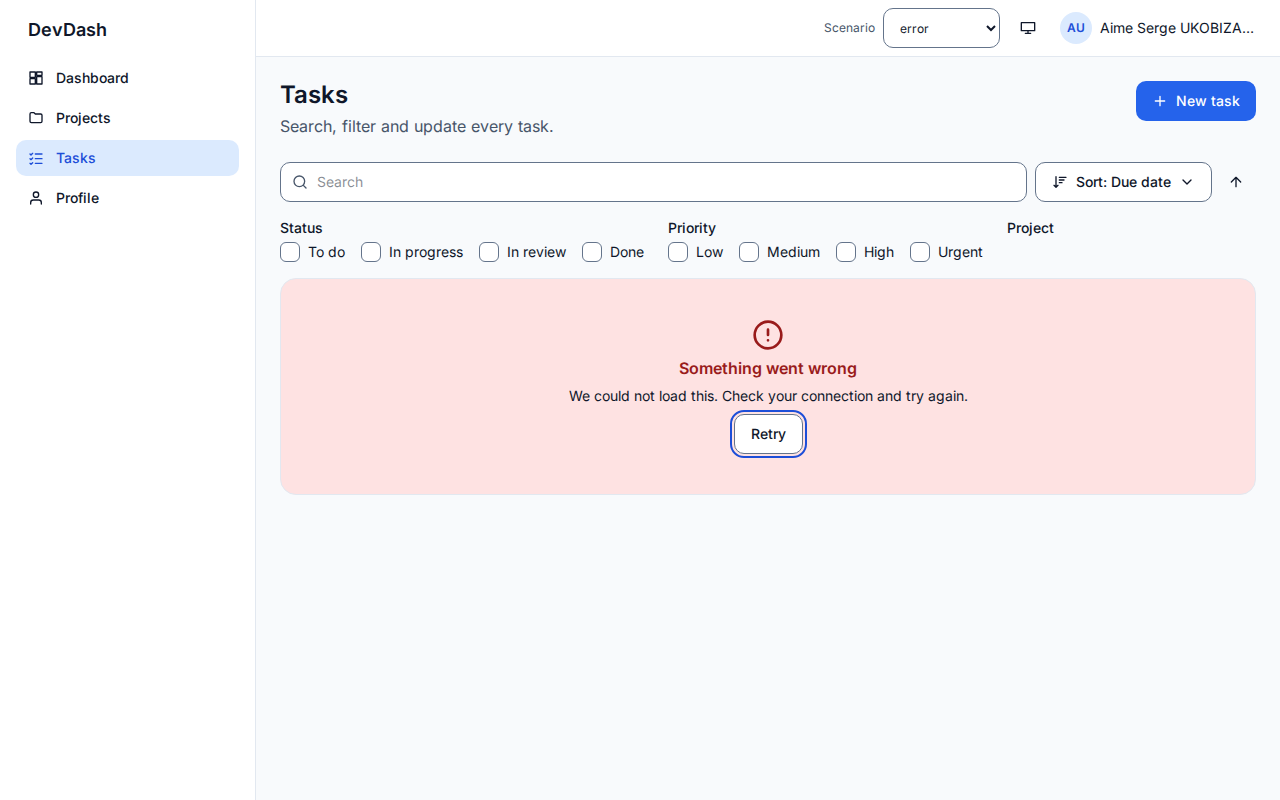
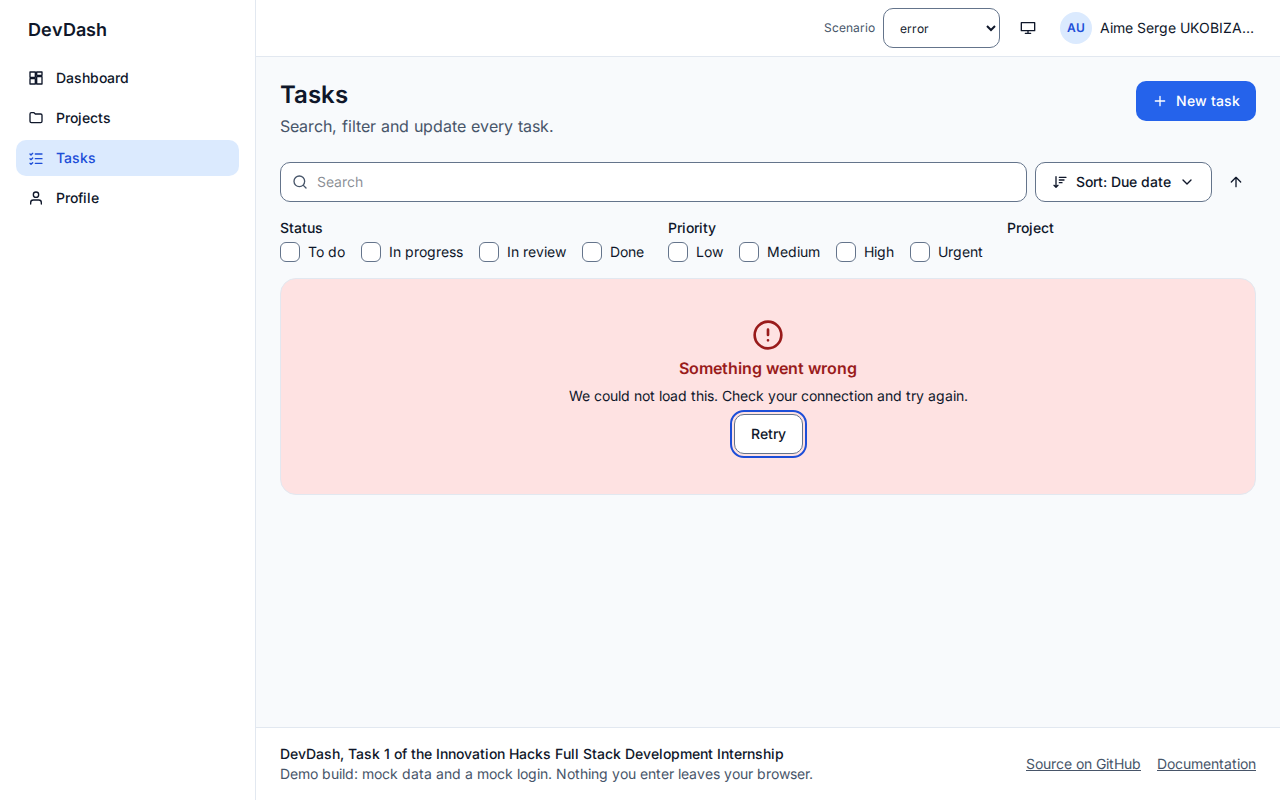
feat(frontend): add a server-rendered footer landmark with repo and docs links

Changed region(s): [[0.2188, 0.9375, 0.625, 1.0], [0.7812, 0.9375, 1.0, 0.9688]]

diff --git a/src/layout/Footer.tsx b/src/layout/Footer.tsx
@@ -1,0 +1,40 @@
+import { t } from "@/i18n";
+
+const REPO = "https://github.com/Aime-Serge/innovation-hacks-task1-dashboard";
+
+/** A server component: the footer adds no client JavaScript (NFR-04). */
+export function Footer() {
+  return (
+    <footer
+      aria-label={t("footer.label")}
+      className="border-t border-line bg-surface px-4 py-4 sm:px-6"
+    >
+      <div className="mx-auto flex w-full max-w-(--content-max) flex-col gap-2 text-sm text-muted sm:flex-row sm:items-center sm:justify-between">
+        <div>
+          <p className="font-medium text-fg">{t("footer.project")}</p>
+          <p>{t("footer.demo")}</p>
+        </div>
+        <ul className="flex gap-4">
+          <li>
+            <a
+              href={REPO}
+              rel="noopener noreferrer"
+              className="touch-target inline-flex items-center underline"
+            >
+              {t("footer.repo")}
+            </a>
+          </li>
+          <li>
+            <a
+              href={`${REPO}/tree/task/1-frontend/docs`}
+              rel="noopener noreferrer"
+              className="touch-target inline-flex items-center underline"
+            >
+              {t("footer.docs")}
+            </a>
+          </li>
+        </ul>
+      </div>
+    </footer>
+  );
+}

diff --git a/tests/unit/shell.test.tsx b/tests/unit/shell.test.tsx
@@ -1,4 +1,4 @@
-import { render, screen, waitFor } from "@testing-library/react";
+import { render, screen, waitFor, within } from "@testing-library/react";
 import userEvent from "@testing-library/user-event";
 import { beforeEach, describe, expect, it, vi } from "vitest";
 import { ForgotPasswordForm } from "@/features/auth/ForgotPasswordForm";
@@ -69,6 +69,18 @@ describe("TC-010 navigation (FR-05..08)", () => {
     expect(skip).toHaveFocus();
     expect(skip).toHaveAttribute("href", "#main-content");
     expect(screen.getByRole("main")).toHaveAttribute("id", "main-content");
+  });
+
+  it("TC-012 the shell ends with a labelled footer landmark and safe external links", () => {
+    renderApp(
+      <AppShell>
+        <p>Body</p>
+      </AppShell>,
+    );
+    const footer = screen.getByRole("contentinfo", { name: "Site footer" });
+    const repo = within(footer).getByRole("link", { name: "Source on GitHub" });
+    expect(repo).toHaveAttribute("rel", "noopener noreferrer");
+    expect(within(footer).getByText(/mock data and a mock login/)).toBeInTheDocument();
   });
 
   it("TC-012 the shell has header, nav and one main landmark", () => {

diff --git a/src/layout/AppShell.tsx b/src/layout/AppShell.tsx
@@ -1,9 +1,10 @@
 import type { ReactNode } from "react";
+import { Footer } from "./Footer";
 import { Header } from "./Header";
 import { Sidebar } from "./Sidebar";
 import { SkipLink } from "./SkipLink";
 
-/** Authenticated frame: skip link, sidebar, header, one <main> landmark. */
+/** Authenticated frame: skip link, sidebar, header, one <main> landmark, footer. */
 export function AppShell({ children }: { children: ReactNode }) {
   return (
     <div className="flex min-h-dvh">
@@ -18,6 +19,7 @@ export function AppShell({ children }: { children: ReactNode }) {
         >
           {children}
         </main>
+        <Footer />
       </div>
     </div>
   );

diff --git a/src/i18n/en.ts b/src/i18n/en.ts
@@ -22,6 +22,11 @@ export const en = {
   "form.saveFailed": "We could not save your changes. Please try again.",
 
   "layout.skip": "Skip to main content",
+  "footer.label": "Site footer",
+  "footer.project": "DevDash, Task 1 of the Innovation Hacks Full Stack Development Internship",
+  "footer.demo": "Demo build: mock data and a mock login. Nothing you enter leaves your browser.",
+  "footer.repo": "Source on GitHub",
+  "footer.docs": "Documentation",
   "layout.primaryNav": "Primary",
   "layout.menu": "Menu",
   "layout.openMenu": "Open menu",
